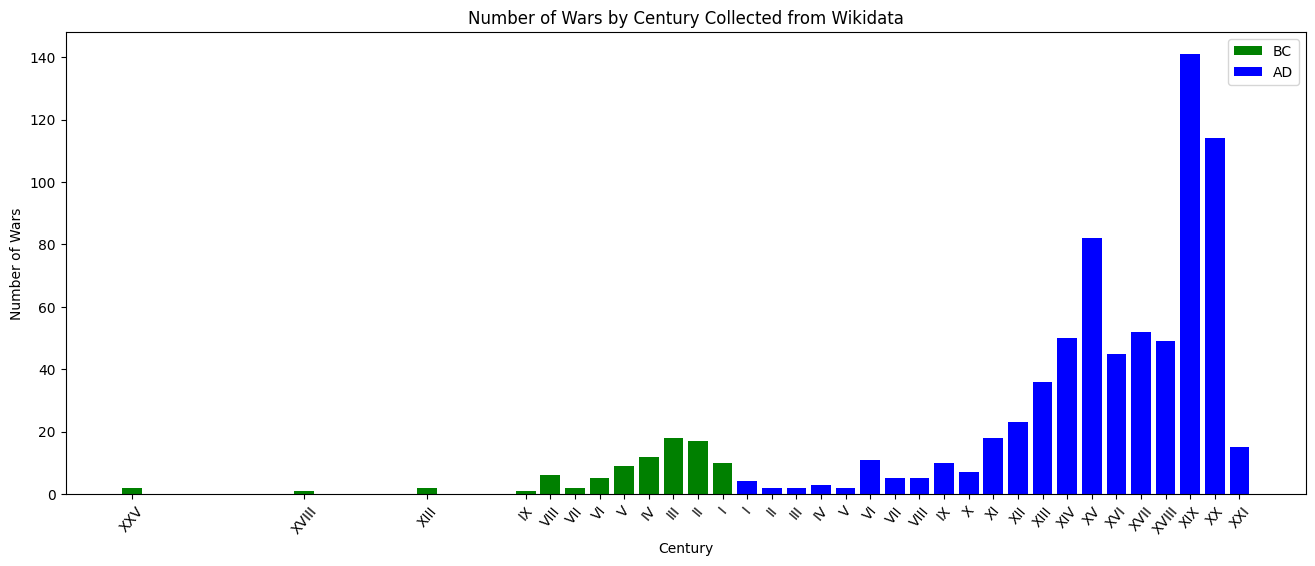
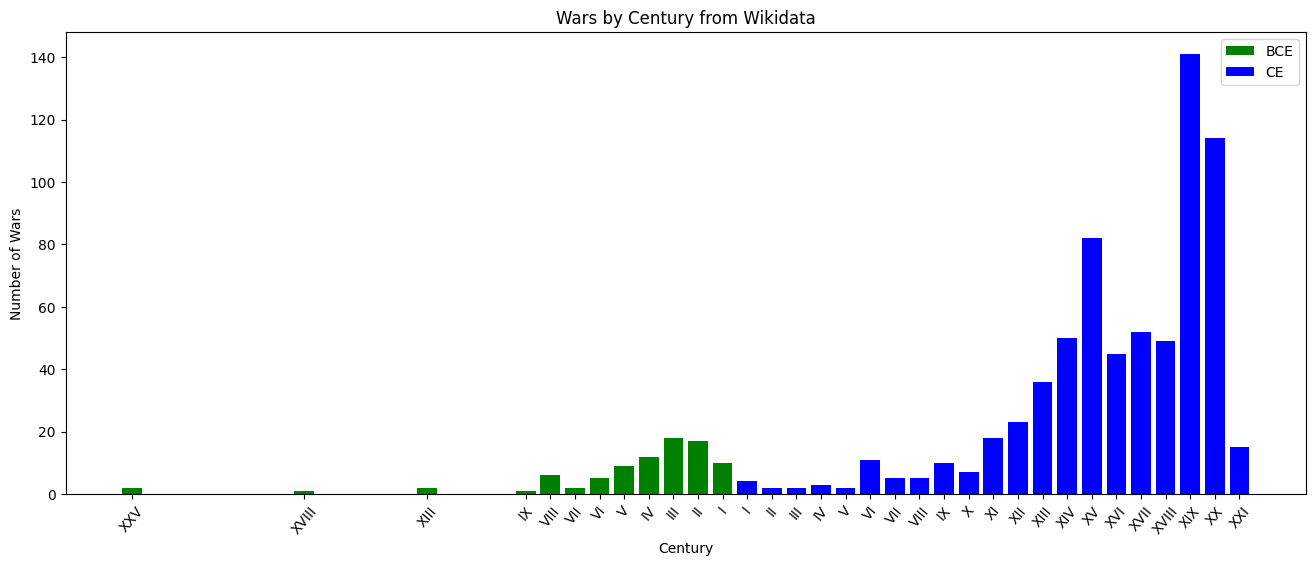
removed annoying header from sub pages, updat imag

Changed region(s): [[0.343, 0.0, 0.6859, 0.0601], [0.9354, 0.0601, 0.9977, 0.1502]]

diff --git a/_includes/header.html b/_includes/header.html
@@ -4,9 +4,19 @@
       <!-- Nav Bar -->
       <nav id="navbar" class="navbar navbar-light navbar-expand-sm {% if site.navbar_fixed %}fixed-top{% else %}sticky-top{% endif %}">
         <div class="container">
+          <!-- Display "Home" with a link to the About page on all pages other than the About page
+          {% if page.title != "about" %}
+          <a class="navbar-brand title font-weight-lighter" href="{{ '/' | relative_url }}">Home</a>
+          {% else %}
+          Display the site title on the About page -->
+          <!-- <a class="navbar-brand title font-weight-lighter" href="{{ site.baseurl | prepend: site.url }}/">
+            {%- if site.title == "blank" -%}<span class="font-weight-bold">{{ site.first_name }}</span> {{ site.middle_name }}  {{ site.last_name }}{%- else -%}{{ site.title }}{%- endif -%}
+          </a>
+          {% endif %} -->
+          <!-- End of "Home" link -->
           {% if page.title != "about" -%}
           <a class="navbar-brand title font-weight-lighter" href="{{ site.baseurl | prepend: site.url }}/">
-              {%- if site.title == "blank" -%}<span class="font-weight-bold">{{ site.first_name }}</span> {{ site.middle_name }}  {{ site.last_name }}{%- else -%}{{ site.title }}{%- endif -%}
+              <!-- {%- if site.title == "blank" -%}<span class="font-weight-bold">{{ site.first_name }}</span> {{ site.middle_name }}  {{ site.last_name }}{%- else -%}{{ site.title }}{%- endif -%} -->
           </a>
           {%- elsif site.enable_navbar_social -%}
           <!-- Social Icons -->

diff --git a/_posts/2024-03-19-wikidataAndWarHistory.md b/_posts/2024-03-19-wikidataAndWarHistory.md
@@ -24,7 +24,7 @@ Unfortunately, the Wikidata war data is very incomplete, too incomplete for any 
 </div>
 
 ---
-While Wikidata is a cool place to get data on anything and I'm planning to use it again, it didn't work so well in this case. Since then I've come across a [great analysis](https://ourworldindata.org/war-and-peace) of global war data by OurWorldInData. The authors explain how complex getting data on war is and do a great job of presenting what we know so far. Most of their analyses rely on data from 1800 and later, so it would be interesting to investigate wars in older times.
+While Wikidata is a cool place to get data on anything and I'm planning to use it again, it didn't work so well in this case. Since then I've come across a [great analysis](https://ourworldindata.org/war-and-peace) of global war data by OurWorldInData. The authors explain how complex getting data on war is and do a good job of presenting what we know so far. Most of their analyses rely on data from 1800 and later, so it would be interesting to investigate wars that happened before that.
 
 
 
